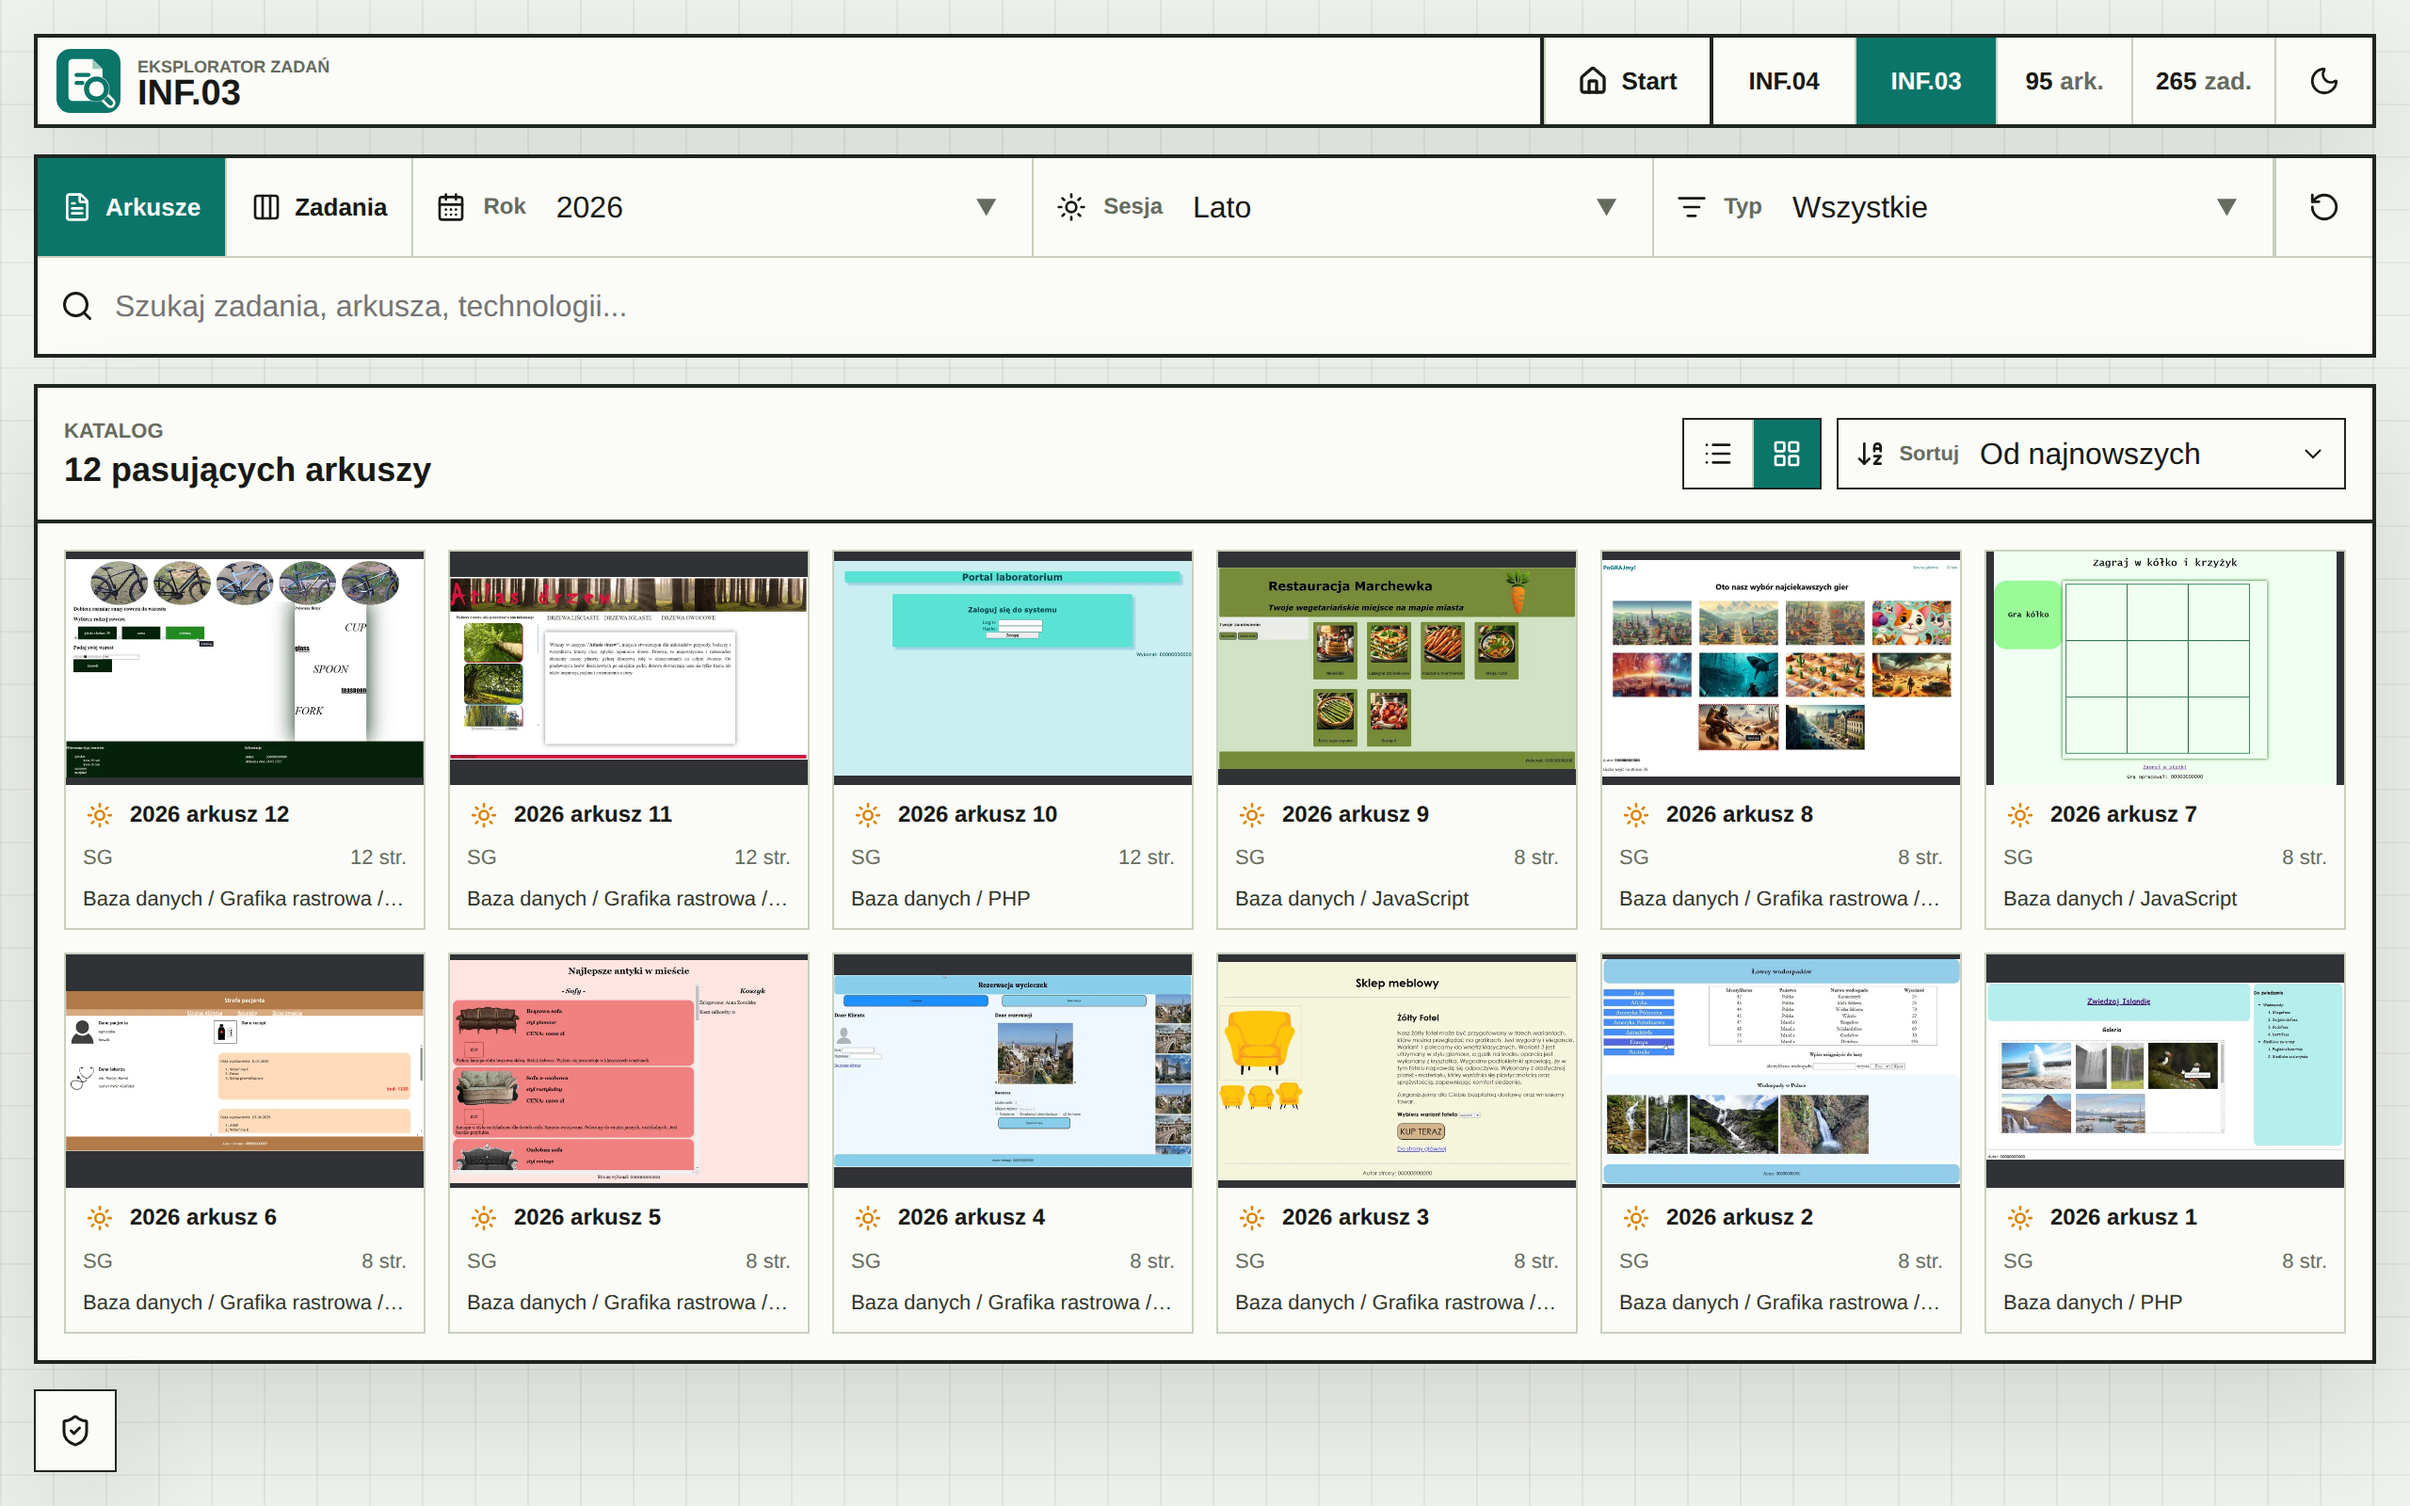
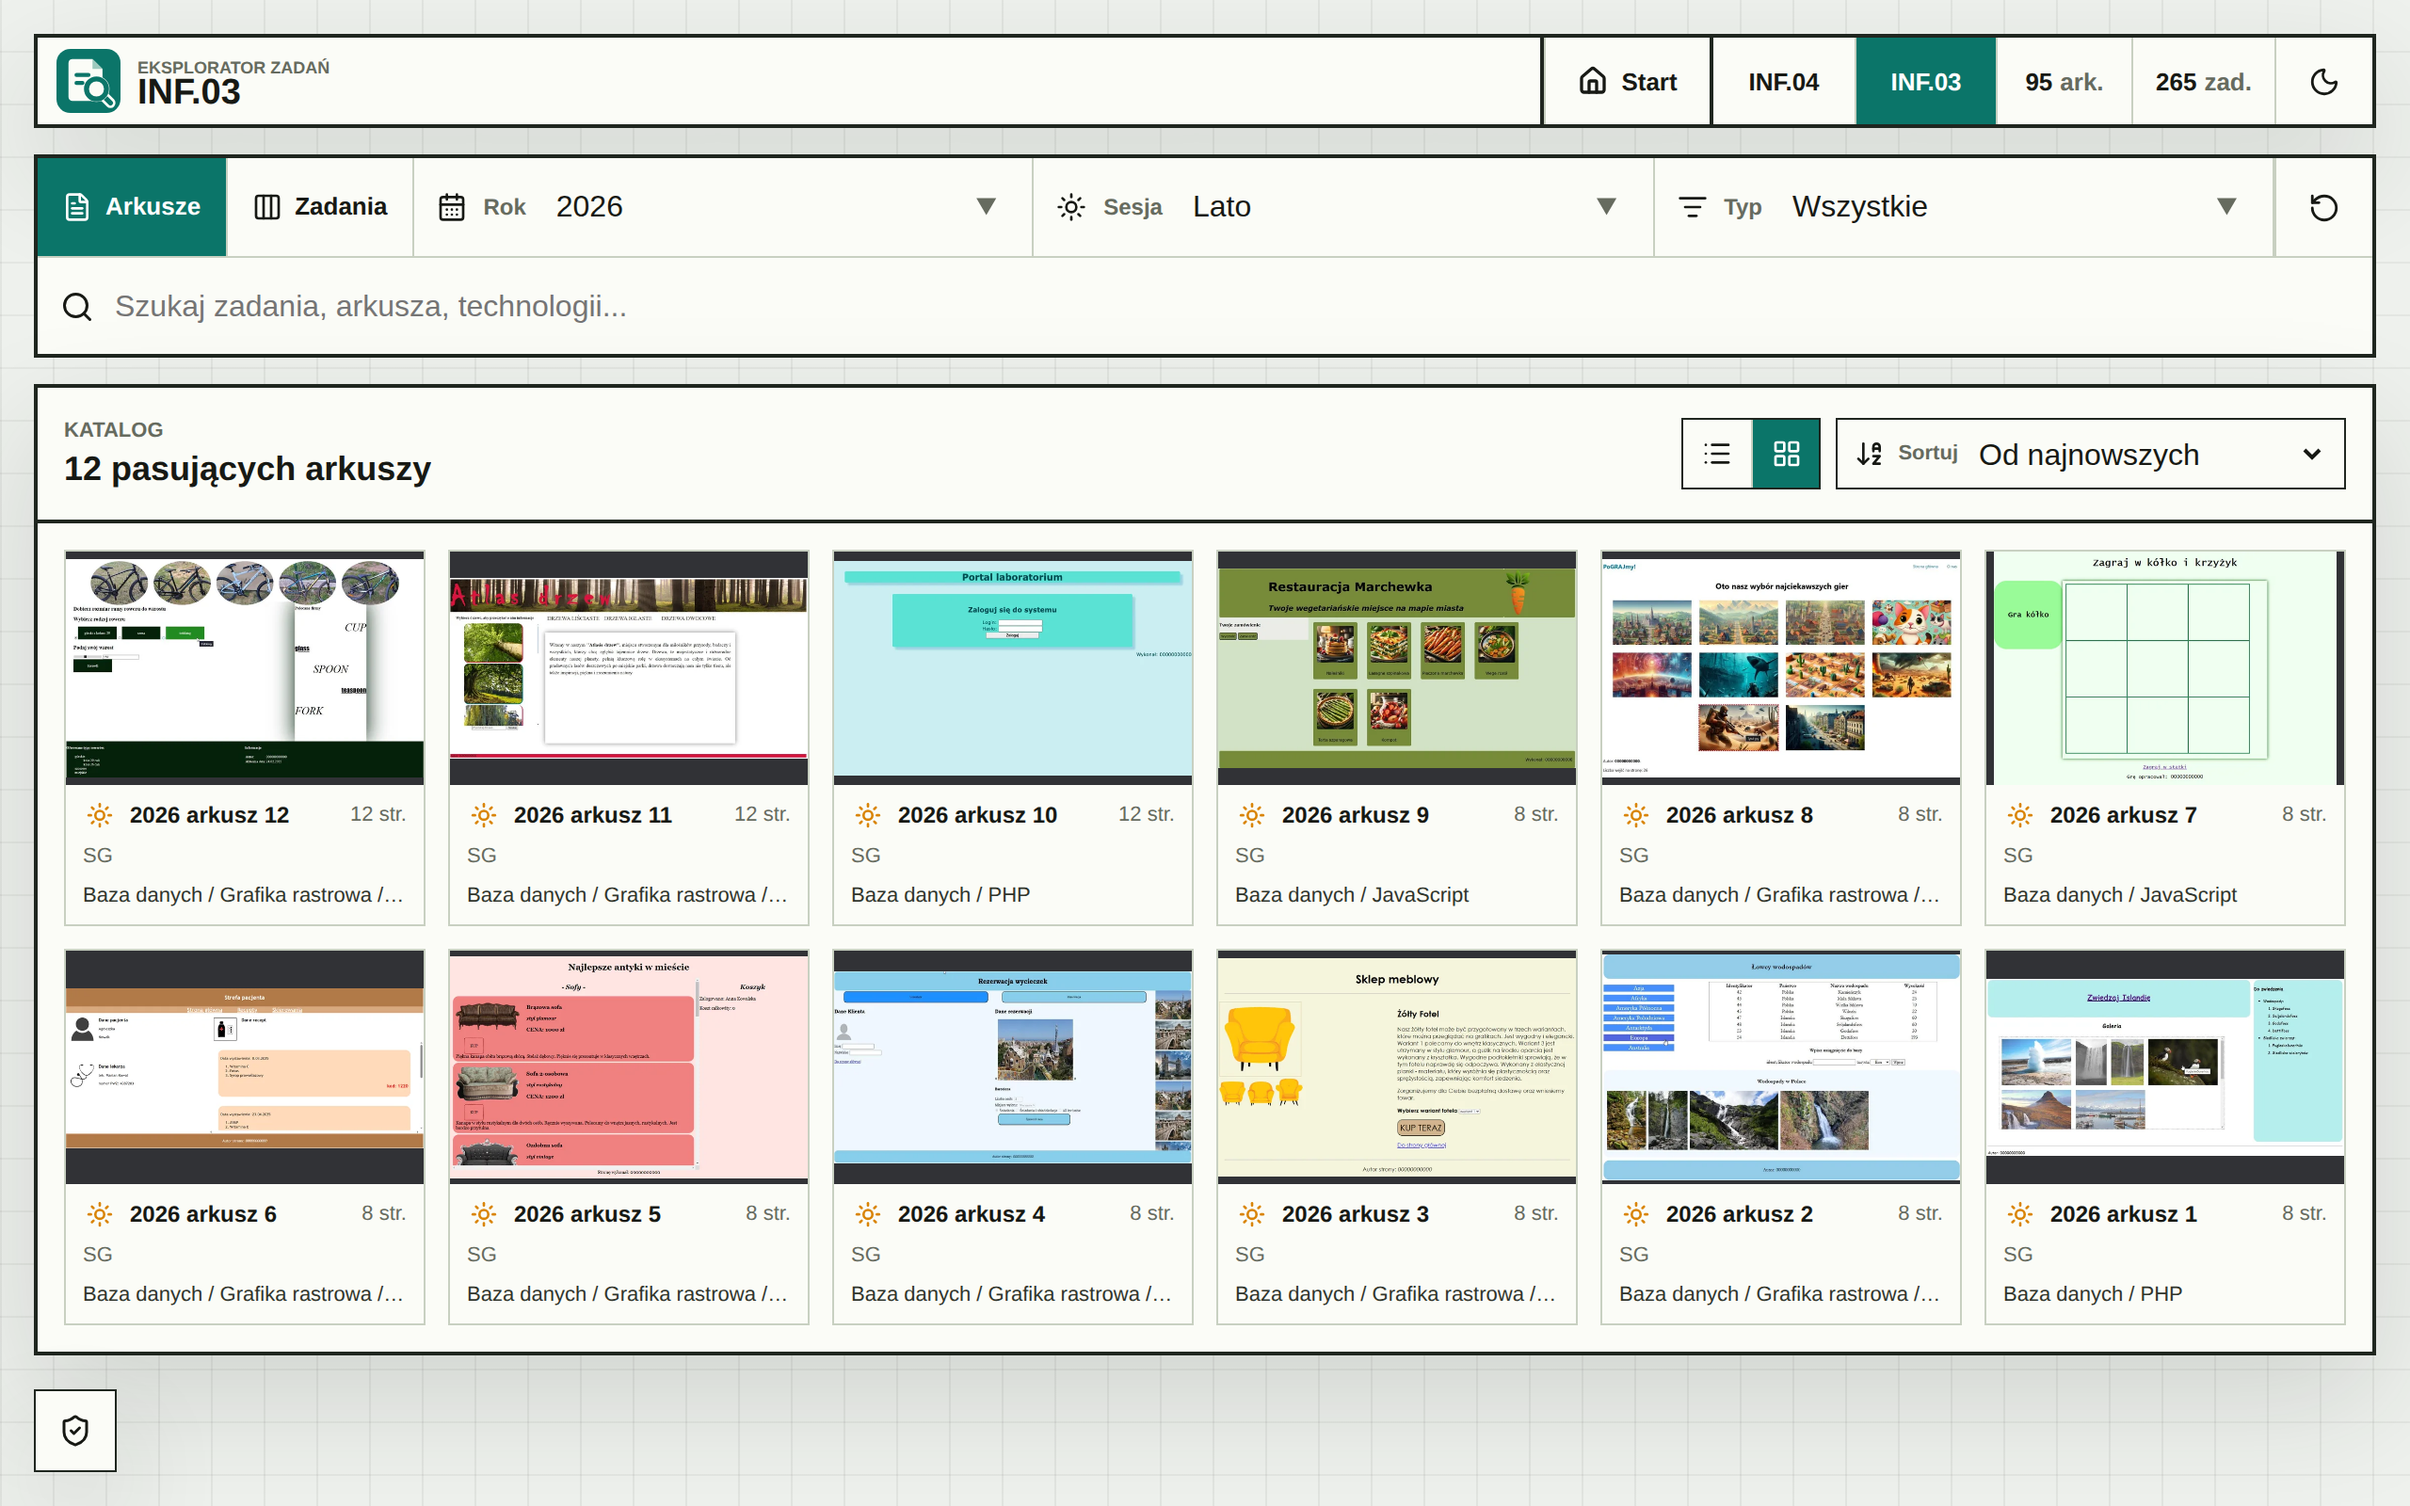
Move thumbnail page counts into exam titles

diff --git a/src/components/RegistryPane.tsx b/src/components/RegistryPane.tsx
@@ -367,14 +367,31 @@ function ExamList({
                 </span>
               </span>
             )}
-            <SeasonExamLabel
-              exam={exam}
-              showSeason={false}
-              showVariant={false}
-            />
+            {view === "thumbnails" ? (
+              <span className="exam-card-heading">
+                <SeasonExamLabel
+                  exam={exam}
+                  showSeason={false}
+                  showVariant={false}
+                />
+                <span className="exam-page-count">
+                  {exam.pageCount} str.
+                </span>
+              </span>
+            ) : (
+              <SeasonExamLabel
+                exam={exam}
+                showSeason={false}
+                showVariant={false}
+              />
+            )}
             <span className="exam-meta">
               <span className="exam-variant">{exam.variant}</span>
-              <span className="exam-page-count">{exam.pageCount} str.</span>
+              {view !== "thumbnails" && (
+                <span className="exam-page-count">
+                  {exam.pageCount} str.
+                </span>
+              )}
             </span>
             <span className="exam-types">
               {examTasks.map((task) => typeLabels[task.type]).join(" / ")}

diff --git a/src/styles/registry.css b/src/styles/registry.css
@@ -165,11 +165,33 @@
   display: grid;
 }
 
-.thumbnail-view .exam-code {
+.thumbnail-view .exam-card-heading {
+  display: flex;
   min-width: 0;
   width: calc(100% - 18px);
+  align-items: center;
+  justify-content: space-between;
+  gap: 8px;
   margin-inline: 9px;
+}
+
+.thumbnail-view .exam-code {
+  min-width: 0;
+  flex: 1 1 auto;
+  overflow: hidden;
   font-size: 12px;
+}
+
+.thumbnail-view .exam-code > span {
+  overflow: hidden;
+  text-overflow: ellipsis;
+  white-space: nowrap;
+}
+
+.thumbnail-view .exam-card-heading .exam-page-count {
+  flex: 0 0 auto;
+  font-size: 11px;
+  white-space: nowrap;
 }
 
 .thumbnail-view .exam-meta {
